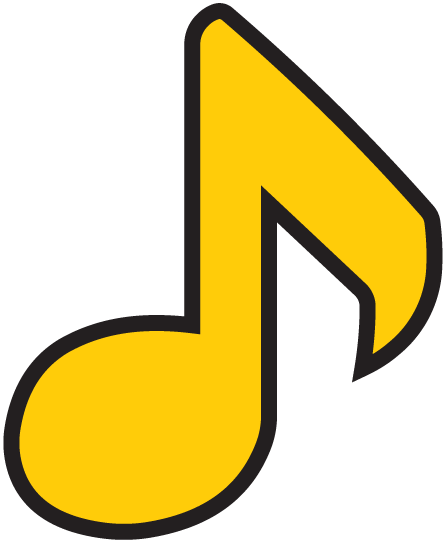
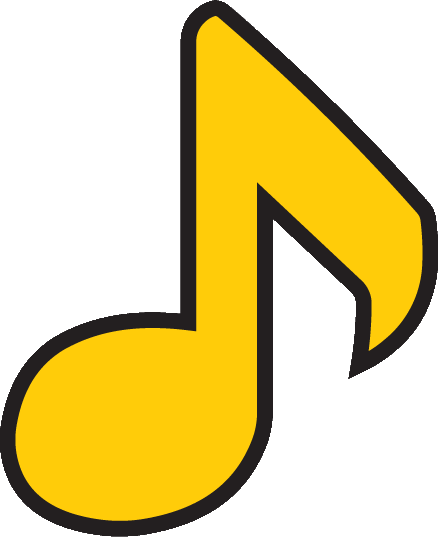
added more.dart page framework and cropped all images

diff --git a/animal_crossing_app/lib/main.dart b/animal_crossing_app/lib/main.dart
@@ -1,7 +1,7 @@
 import 'package:flutter/material.dart';
 import 'package:curved_navigation_bar/curved_navigation_bar.dart';
 import 'package:flutter/services.dart';
-import 'fish.dart';
+import 'more.dart';
 import 'bugs.dart';
 import 'mainMenu.dart';
 import 'fishList.dart';
@@ -47,7 +47,6 @@ class _MainPageState extends State<Main> {
 
   Home homepage;
   BugsPage bugspage;
-  Fish fishpage;
   MorePage morepage;
   FishList fishlist;
   MusicList musiclist;
@@ -58,7 +57,7 @@ class _MainPageState extends State<Main> {
   void initState(){
     homepage = Home();
     bugspage = BugsPage();
-    fishpage = Fish();
+    morepage = MorePage();
     fishlist = FishList();
     musiclist = MusicList();
 
@@ -77,10 +76,9 @@ class _MainPageState extends State<Main> {
       } else if (index == 1){
         currentPageWidget = musiclist;
       } else if (index == 2){
-        currentPageWidget = fishpage;
+        currentPageWidget = morepage;
       } else {
         currentPageWidget = fishlist;
-        print(Brightness.values);
       }
     });
     HapticFeedback.mediumImpact(); 
@@ -140,15 +138,6 @@ class _MainPageState extends State<Main> {
   }
 }
 
-class MorePage extends StatelessWidget{
-  @override 
-  Widget build(BuildContext context){
-    return Container(
-      height: MediaQuery.of(context).size.height,
-      color: Colors.grey,
-    );
-  }
-}
 
 Color darkModeColor(bool darkMode, Color colorLight, Color colorDark){
   if(!darkMode)

diff --git a/animal_crossing_app/lib/more.dart b/animal_crossing_app/lib/more.dart
@@ -1,0 +1,55 @@
+import 'main.dart';
+import 'package:flutter/material.dart';
+import 'package:flutter/services.dart';
+
+
+class MorePage extends StatefulWidget {
+  MorePage({Key key, this.title}) : super(key: key);
+
+  final String title;
+
+  @override
+  _MorePageState createState() => _MorePageState();
+}
+
+class _MorePageState extends State<MorePage>{
+  @override
+  Widget build(BuildContext context){
+    bool darkMode = MediaQuery.of(context).platformBrightness == Brightness.dark;
+
+    double deviceWidth = MediaQuery.of(context).size.width;
+    double designedWidth = 360;
+
+    double deviceHeight = MediaQuery.of(context).size.height;
+    double designedHeight = 640;
+
+    double percentWidth = deviceWidth/designedWidth;
+    double percentHeight = deviceHeight/designedHeight;
+
+    double percentScale;
+
+    if(percentWidth < percentHeight){
+      percentScale = percentWidth;
+    } else {
+      percentScale = percentHeight;
+    }
+
+    Color textColor;
+    if(!darkMode)
+      textColor = Color( 0xFFFFFFFF);
+    else
+      textColor = Color( 0xFFF5F5F5);
+
+      
+    return Scaffold(
+      body: Stack(
+        children: <Widget>[
+          Container(
+            height: MediaQuery.of(context).size.height,
+            color: darkModeColor(darkMode, Color( 0xFF81C0FF), Color( 0xff08354E)),
+          ),
+        ],
+      )
+    );
+  }
+}

diff --git a/animal_crossing_app/lib/fishPopup.dart b/animal_crossing_app/lib/fishPopup.dart
@@ -2,6 +2,7 @@ import 'main.dart';
 import 'package:flutter/material.dart';
 import 'package:cached_network_image/cached_network_image.dart';
 import 'package:flutter/services.dart';
+import 'fishList.dart';
 import 'package:intl/intl.dart';
 
 Widget fishPopUp(double percentScale,bool caught,String name,String iconImage,String sell,String whereHow,String shadow,String nhJan,String nhFeb,String nhMar,String nhApr,String nhMay,String nhJun,String nhJul,String nhAug,String nhSep,String nhOct,String nhNov,String nhDec,String shJan,String shFeb,String shMar,String shApr,String shMay,String shJun,String shJul,String shAug,String shSep,String shOct,String shNov,String shDec){
@@ -245,7 +246,7 @@ Widget fishPopUp(double percentScale,bool caught,String name,String iconImage,St
                             Container(
                               transform: Matrix4.translationValues(-40*percentScale, -4*percentScale, 0),
                               child: new Image.asset(
-                                'assets/fish.png',
+                                'assets/bellBag.png',
                                 height: 30*percentScale,
                                 width: 30*percentScale,
                               ),
